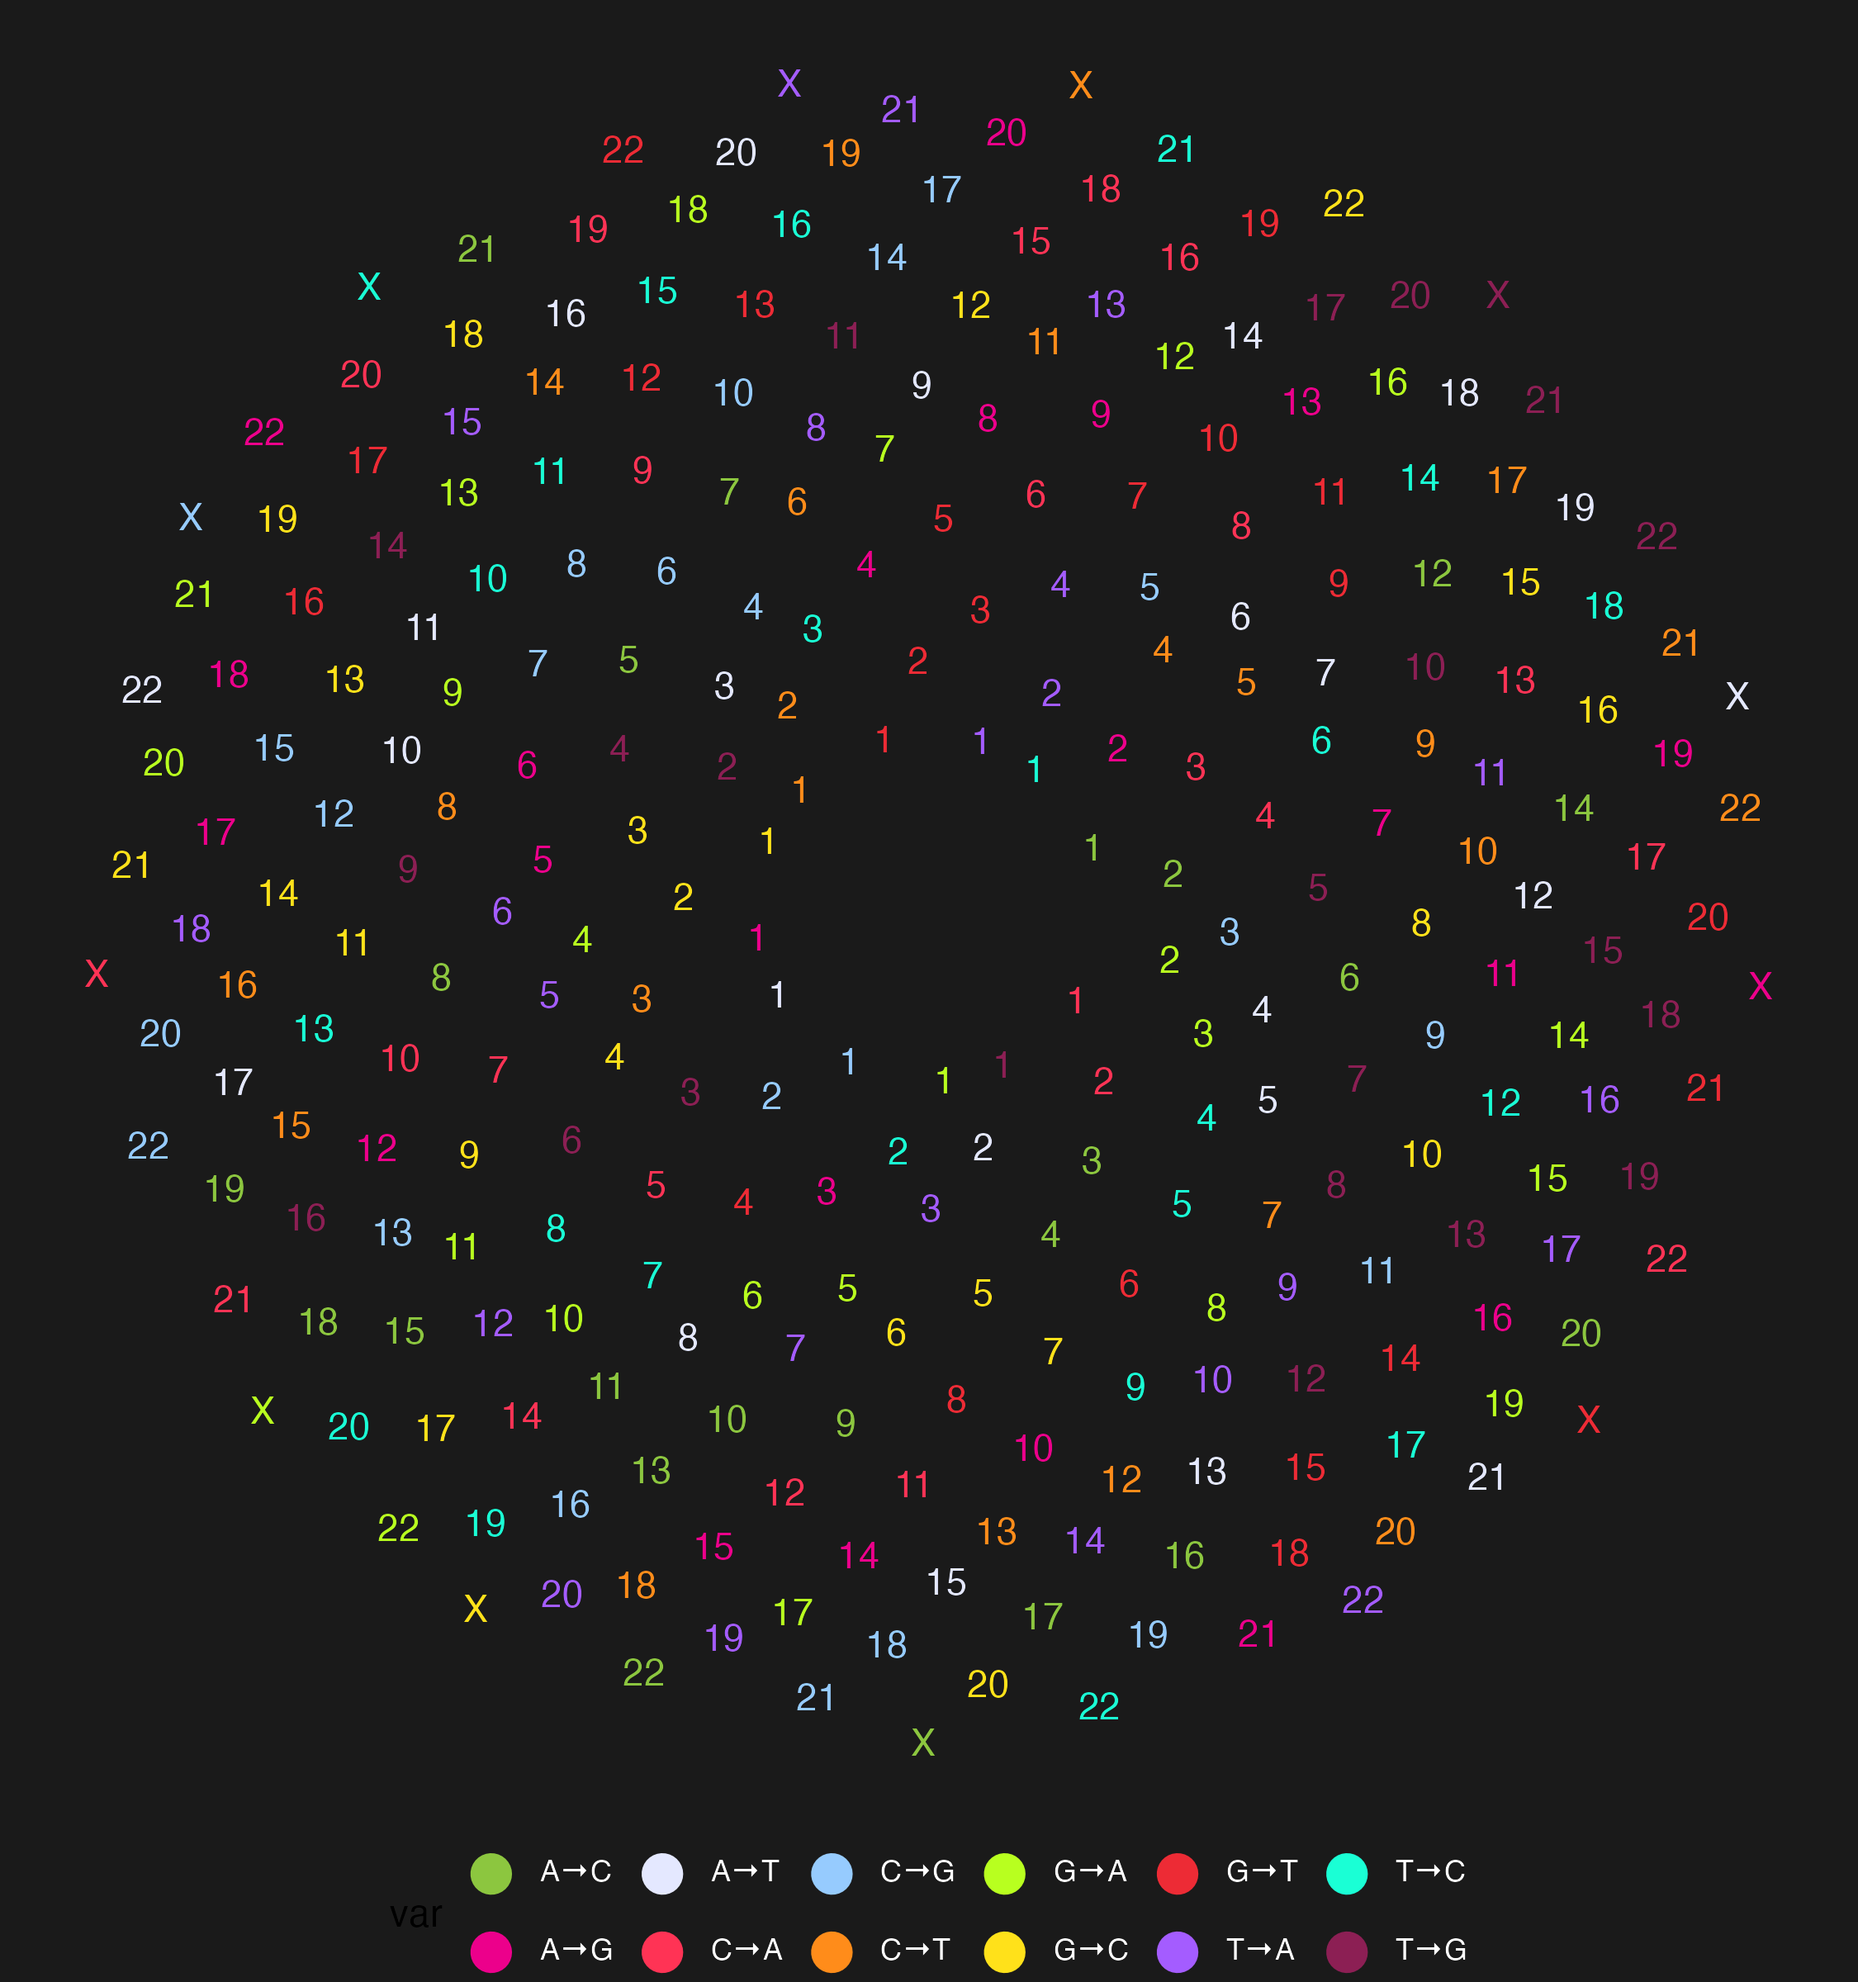
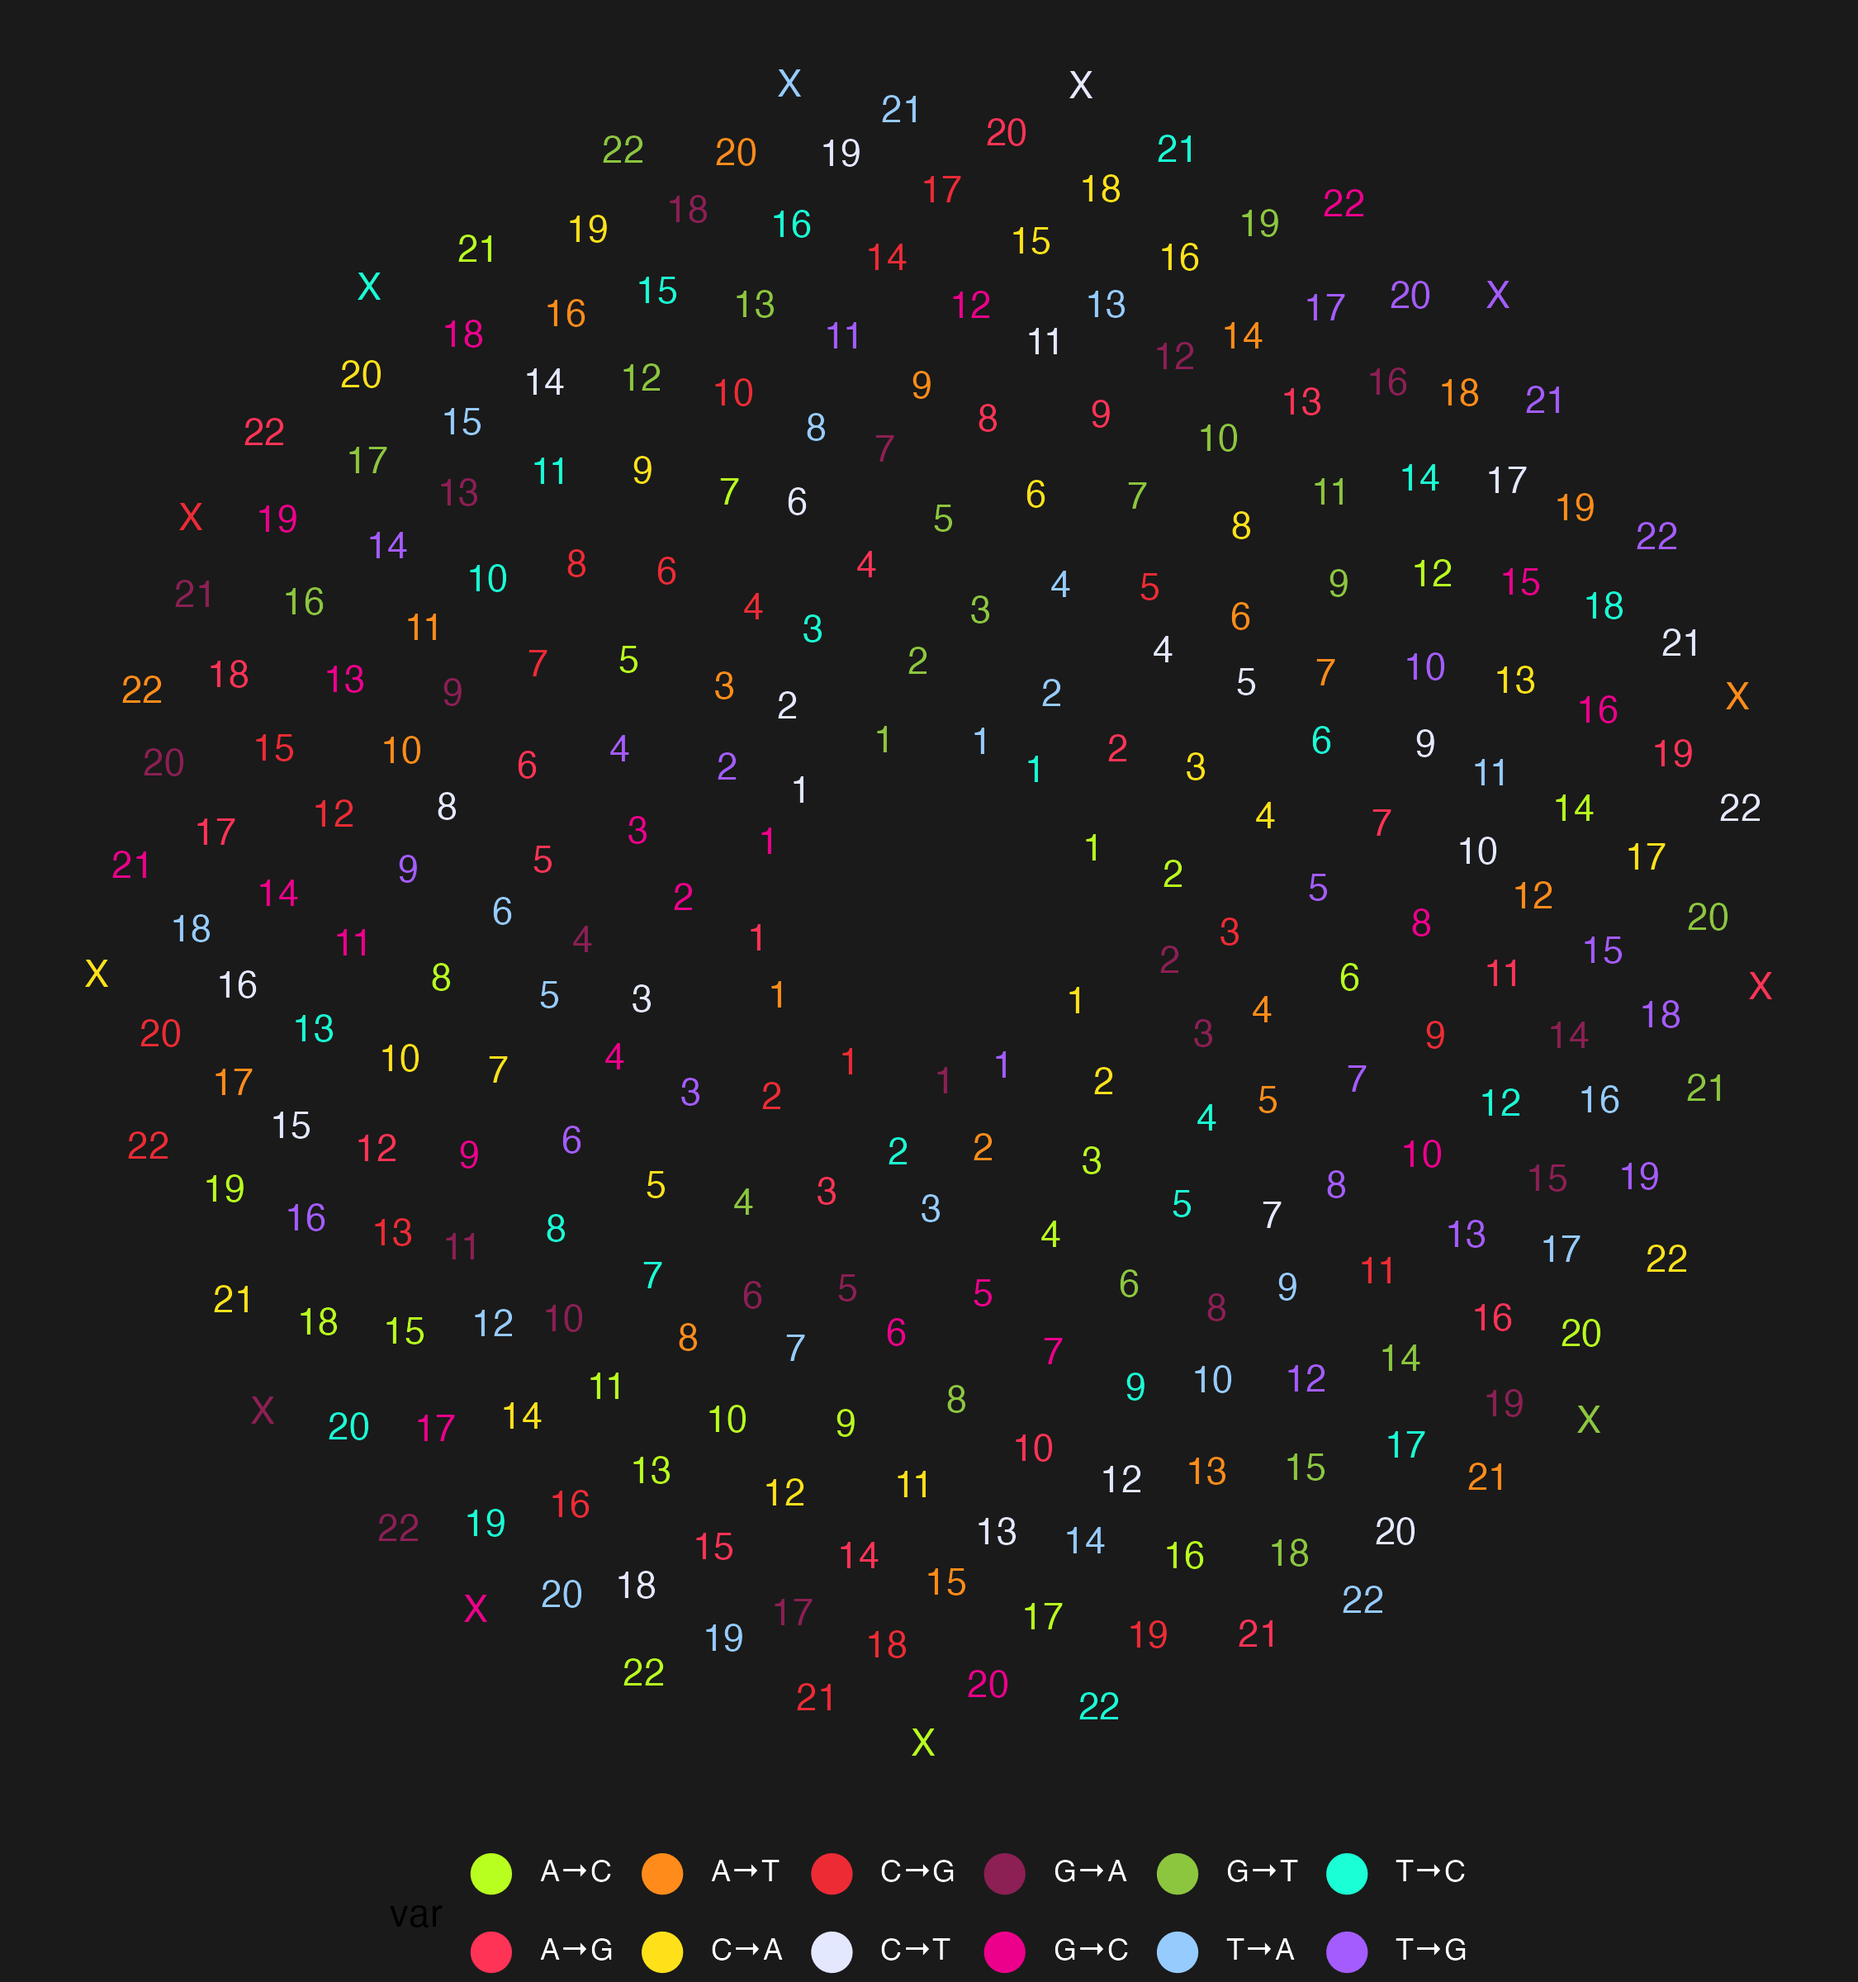
clean up code

diff --git a/README.md b/README.md
@@ -1,6 +1,6 @@
 ## gnome-viz
 
-I enjoy finding new abstract ways to visualize my whole-genome sequencing data and this is where I store them. These visualizations are not meant to be informative - just look pretty!
+I enjoy finding new abstract ways to visualize my whole-genome sequencing data and this is where I store them. These visualizations are not meant to be informative in any way - just look pretty!
 
 ### Phyllotaxis visual
 
